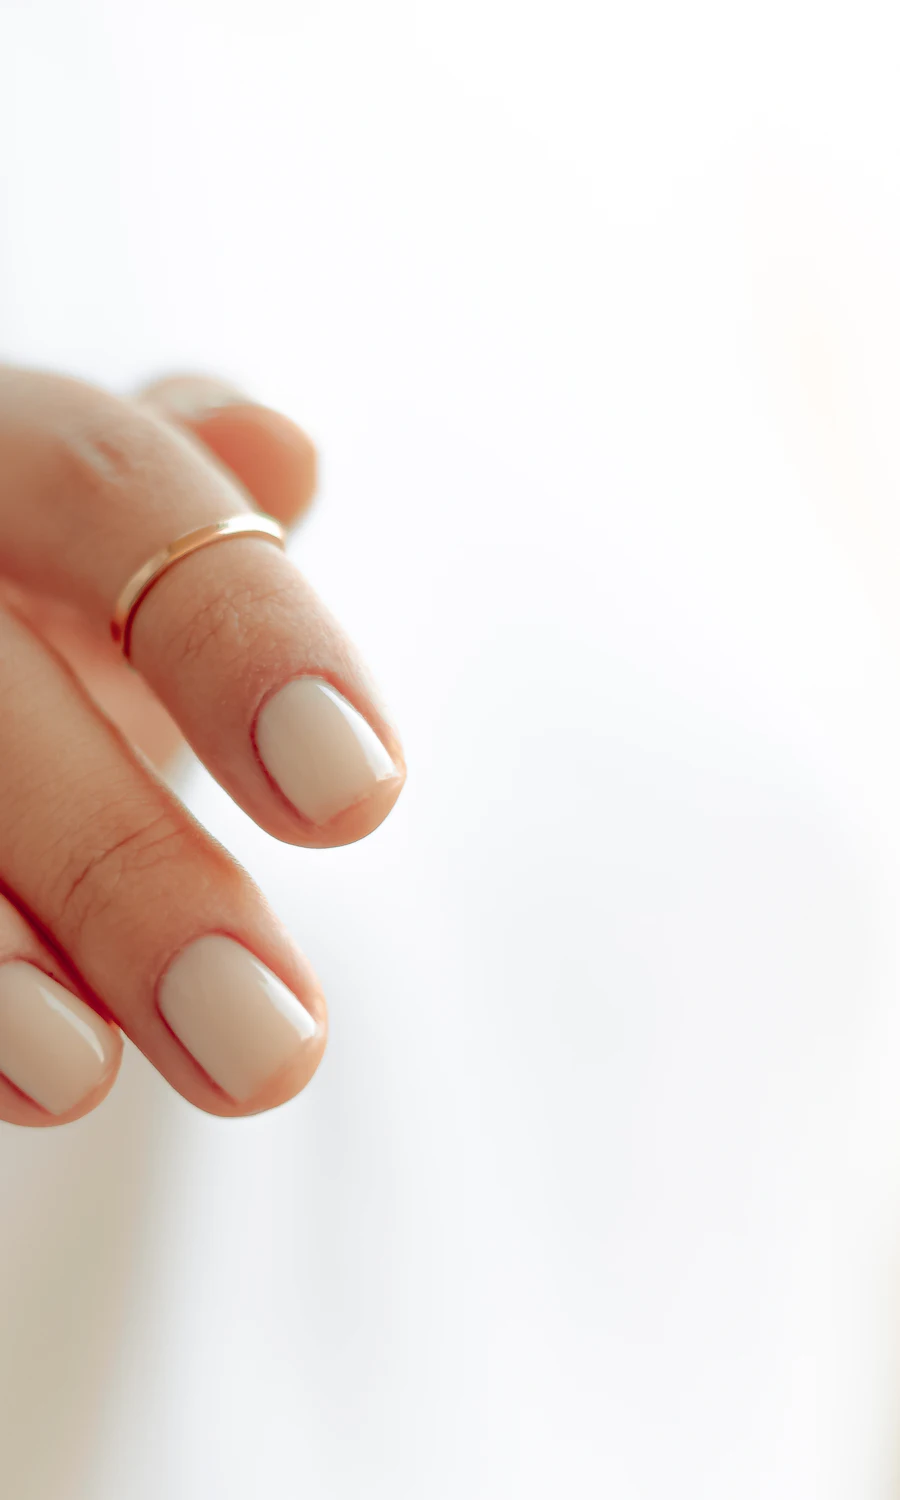
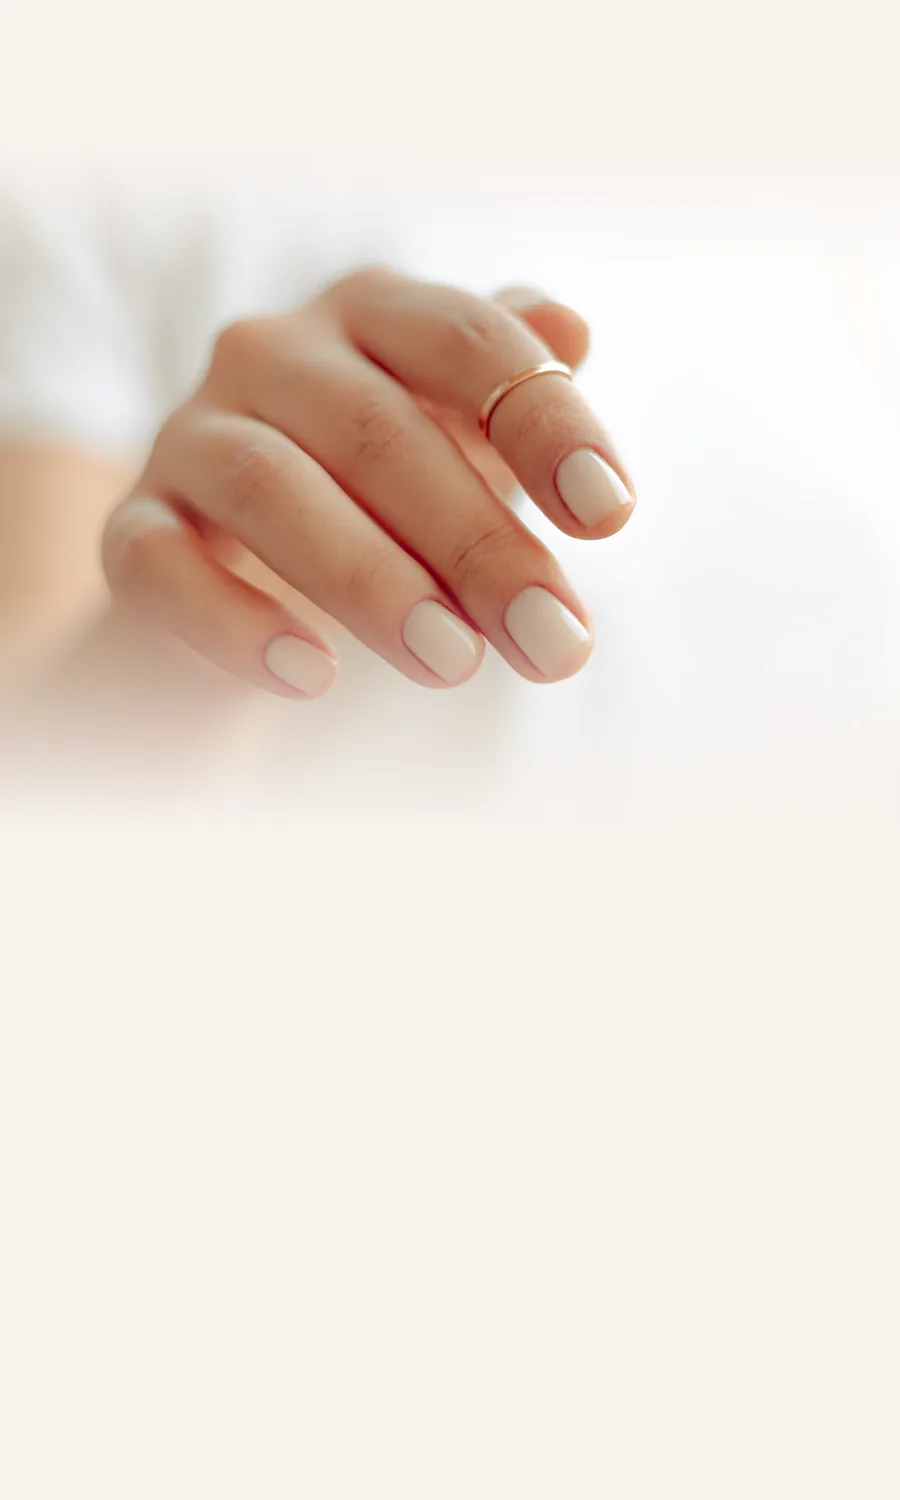
Убрать строку ИП из подвала; рука целиком на телефоне

diff --git a/index.html b/index.html
@@ -91,14 +91,14 @@
   .hero__seal span { font-size: .72rem; letter-spacing: var(--v-track-wide); text-transform: uppercase; font-weight: 600; line-height: 1.3; }
   @media (max-height: 760px) and (min-width: 861px) { .hero__copy .v-display { font-size: var(--v-t-2xl); } .hero__copy { bottom: clamp(3rem, 9vh, 5rem); } .hero__seal { right: auto; left: clamp(1.5rem, 4vw, 4rem); top: auto; bottom: clamp(3rem, 9vh, 5rem); width: 7rem; } }
   @media (max-width: 860px) {
-    .hero__back img { object-position: 30% 40%; }
+    .hero__back img { width: 100%; left: 0; object-position: 50% 0%; } /* мобильный кадр: рука целиком в верхней части */
     .hero__scrim { background: linear-gradient(to top, rgb(247 242 238 / .97) 0%, rgb(247 242 238 / .9) 42%, rgb(247 242 238 / .2) 62%, transparent 75%); }
     .hero__floor { height: 10%; }
     .hero__copy { left: var(--v-gutter); right: var(--v-gutter); width: auto; bottom: calc(1.5rem + env(safe-area-inset-bottom)); }
     .hero__copy .v-display { font-size: var(--v-t-2xl); }
     .hero__copy .v-lede { font-size: var(--v-t-base); margin-top: var(--v-3); }
     .hero__cta { margin-top: var(--v-4); }
-    .hero__seal { left: auto; right: var(--v-gutter); top: 5.5rem; width: 6.5rem; }
+    .hero__seal { left: auto; right: var(--v-gutter); top: 27vh; width: 6.5rem; } /* правее кончиков пальцев, не закрывает ноготь */
     .hero__seal b { font-size: 2rem; }
     .hero__seal span { font-size: .62rem; }
   }
@@ -547,7 +547,6 @@
         </div>
         <footer class="foot">
           <span>Студия маникюра «Лунка»</span>
-          <span>ИП Орлова Е. А. · ИНН 770000000000</span>
           <span class="foot__more">Фото: <a href="https://unsplash.com/license" target="_blank" rel="noopener">Unsplash</a></span>
         </footer>
       </div>
